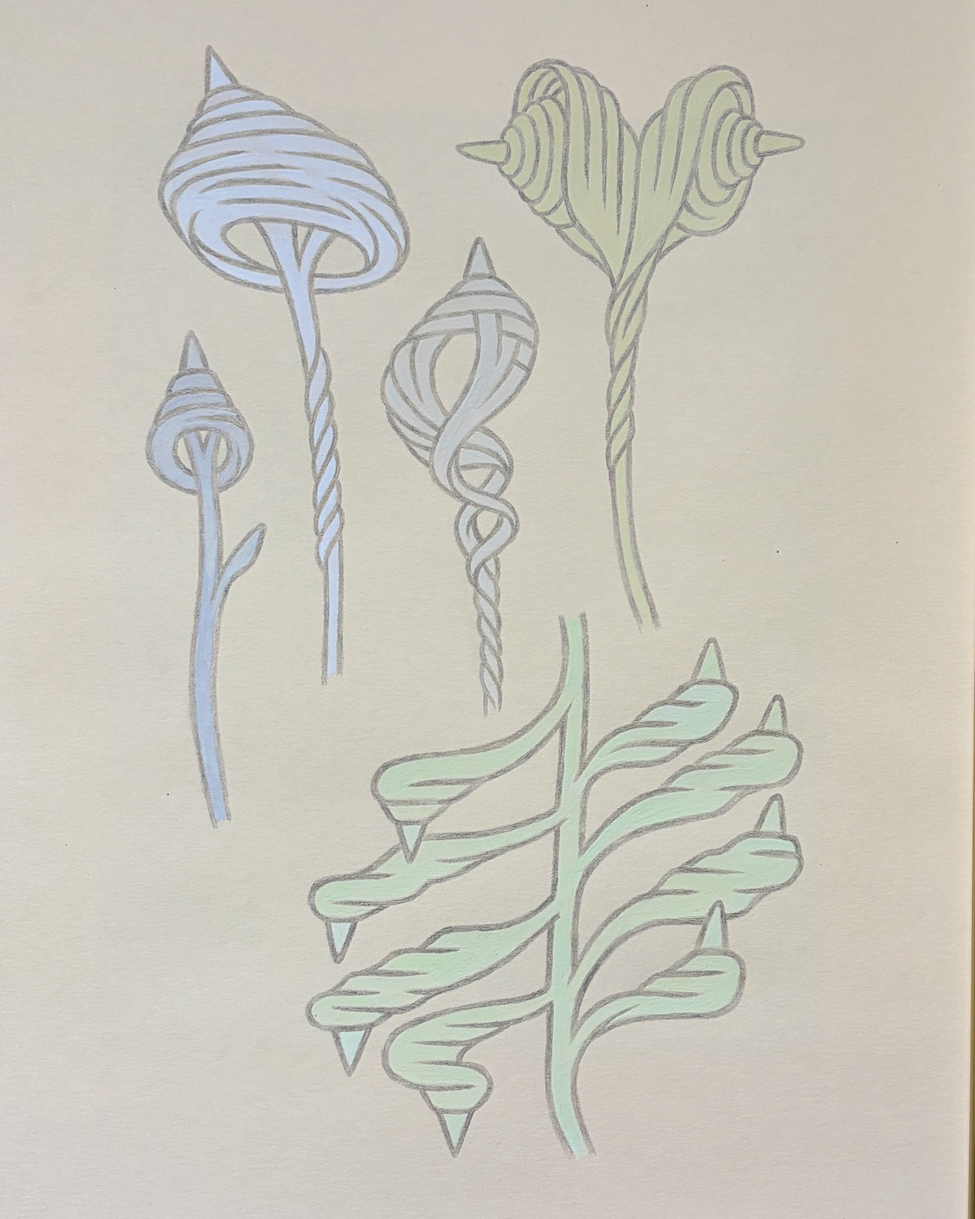
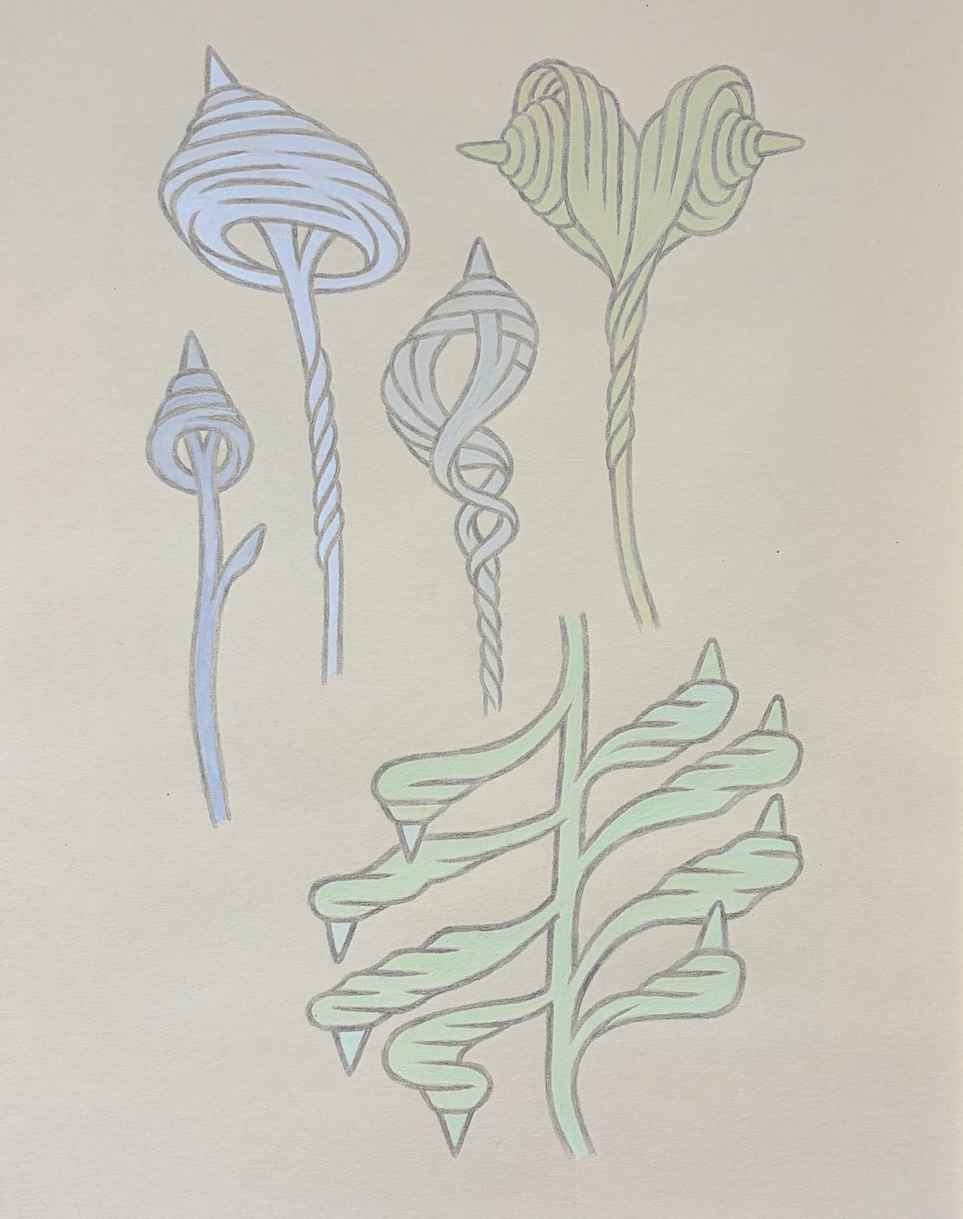
Shells sculpture listing; trim frame edges from botanical photos
- Replace the three mushroom placeholders with a Shells listing using
  both shell photos (medium, dimensions, price still to confirm)
- Trim slivers of frame from the edges of botanicals 1, 4, and 6 Full

diff --git a/app/lib/artwork.ts b/app/lib/artwork.ts
@@ -120,43 +120,33 @@ const drawings: Artwork[] = Array.from({ length: 19 }, (_, i) => {
   };
 });
 
-const placeholders: Artwork[] = [
+const sculptureFile = (name: string) =>
+  `/images/artwork/sculpture/${encodeURIComponent(`Sculpture - ${name}.jpg`)}`;
+
+// TODO: confirm medium, dimensions, and price with John.
+const sculptures: Artwork[] = [
   {
-    slug: 'mushroom-cast-no-1',
-    title: 'Mushroom Cast No. 1',
+    slug: 'shells',
+    title: 'Shells',
     category: 'sculpture',
     medium: 'Cast resin, hand-finished',
     dimensions: '8" wide × 4" tall',
     year: 2025,
     price: 275,
-    gradient: 'from-yellow-100 via-orange-200 to-red-300',
-  },
-  {
-    slug: 'mushroom-cast-no-2',
-    title: 'Mushroom Cast No. 2',
-    category: 'sculpture',
-    medium: 'Cast bronze, patinated',
-    dimensions: '8" wide × 4" tall',
-    year: 2025,
-    price: 275,
-    gradient: 'from-lime-100 via-green-200 to-emerald-300',
-  },
-  {
-    slug: 'mushroom-cast-no-3',
-    title: 'Mushroom Cast No. 3',
-    category: 'sculpture',
-    medium: 'Cast resin, hand-finished',
-    dimensions: '8" wide × 4" tall',
-    year: 2025,
-    price: 275,
-    gradient: 'from-cyan-100 via-blue-200 to-indigo-300',
+    images: [
+      { src: sculptureFile('Shells'), alt: 'Pair of cast pink shells' },
+      {
+        src: sculptureFile('Shells - Shelf'),
+        alt: 'Cast shells on a shelf beside a potted jade plant',
+      },
+    ],
   },
 ];
 
 export const artworks: Artwork[] = [
   ...botanicals,
   ...drawings,
-  ...placeholders,
+  ...sculptures,
 ];
 
 export function getArtwork(slug: string): Artwork | undefined {
